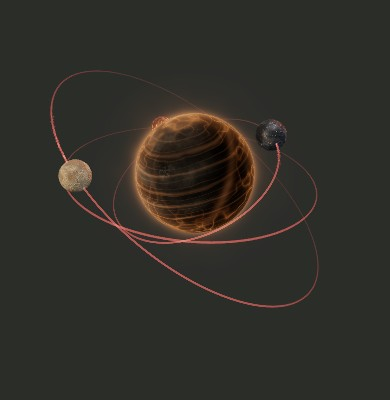
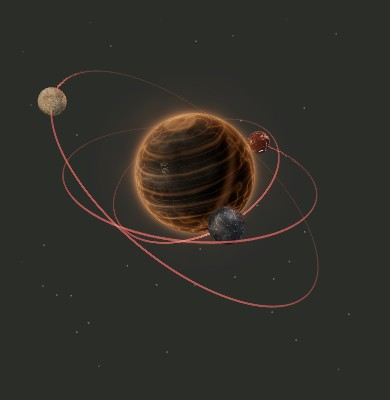
feat(#16): stars in every animation background
Brandon (2026-10-13): "we added stars for playbooks and portfolio and we
should have stars included in all the annimation backgrounds".

- src/lib/orbit/star-dust.ts: the collections' far dust (seeded shell, 1.4px
  fixed-size points, #8a877d at 0.55, below the bloom threshold, unfogged,
  depth-tested) as addStarDust(), and their frame edge fade (EdgeFeather +
  setEdgeFade: 10px hard + 40px soft to the exact ground).
- collection-scene: uses the helper; same seed and values, same look (posters
  kept).
- map-scene (Home close-up, Work with me wide and selected): the dust behind
  the planet and moons, re-centred on the camera each frame so it stays at
  infinity through the flights; 1500 points so the visible density matches the
  collections' (about 6-7 per 100k px at 1440 against their 5.5). Work with me
  gets the edge fade, which also clears the selected view's 1/255 edge tint;
  Home's full-bleed stage skips it (Framing.edgeFade false), its page masks
  already do that work and its planet runs off the window.
- formation-scene (the story scenes): the shared dust, quieter (0.38, 1.2px)
  so it never blooms or competes with the craft trails, camera-centred.
- Posters recaptured from the live scenes: home-closeup-{desktop,mobile}.jpg,
  work-{desktop,mobile}.jpg and formation/{full-time,fractional,advisory}.webp
  (same sizes and formats); scripts/capture-collection-posters.mjs gains
  `stages` and `stories` modes. home-{desktop,mobile}.jpg are not referenced by
[…]

diff --git a/src/lib/orbit/map-scene.ts b/src/lib/orbit/map-scene.ts
@@ -3,6 +3,7 @@ import { EffectComposer } from 'three/addons/postprocessing/EffectComposer.js';
 import { RenderPass } from 'three/addons/postprocessing/RenderPass.js';
 import { UnrealBloomPass } from 'three/addons/postprocessing/UnrealBloomPass.js';
 import { OutputPass } from 'three/addons/postprocessing/OutputPass.js';
+import { ShaderPass } from 'three/addons/postprocessing/ShaderPass.js';
 import { RoundedBoxGeometry } from 'three/addons/geometries/RoundedBoxGeometry.js';
 import { RoomEnvironment } from 'three/addons/environments/RoomEnvironment.js';
 import { CATEGORIES, type CategoryId, type ContentItem } from './orbit-data';
@@ -32,6 +33,7 @@ import { createPlanet } from './planet';
 import { resolveMoonStyle, SPHERE_RADII, SPHERE_CENTER_RADII } from './moon-style';
 import { surfaceMaterial, valueNoise, dataTexture, rustTexture, STAGE_GROUND, type SurfaceUniforms } from './moon-surfaces';
 import { attachMicroFormation, type MicroFormation } from './formation-craft';
+import { addStarDust, EdgeFeather, setEdgeFade } from './star-dust';
 
 /**
  * The renderer no longer decides navigation. The host owns a `lib/map-state`
@@ -174,8 +176,10 @@ function brushedTexture() {
 /** Close-up framing on top of the fitted pose: `zoom` divides the camera distance; `offsetX`/`offsetY`
  * shift the image in NDC without changing perspective (Home's "Quiet orbit" close-up, 2026-10-06).
  * `moonScale` multiplies the moons' overview size for this stage only (Home: smaller moons, Brandon
- * 2026-10-07 "decrease the moon sizes"); a chosen moon still grows to its usual centred size. */
-export type Framing = { zoom: number; offsetX: number; offsetY: number; maxPixelRatio: number; moonScale?: number };
+ * 2026-10-07 "decrease the moon sizes"); a chosen moon still grows to its usual centred size.
+ * `edgeFade: false` skips the stage-box edge fade (Home's full-bleed stage, whose page masks
+ * already fade it into the ground and whose right edge is the window's). */
+export type Framing = { zoom: number; offsetX: number; offsetY: number; maxPixelRatio: number; moonScale?: number; edgeFade?: boolean };
 
 /** `speed` scales the ambient motion (orbits, steps, planet surface); flights keep their timing. */
 export function createMap(
@@ -224,6 +228,14 @@ export function createMap(
   const bloom = new UnrealBloomPass(new THREE.Vector2(800, 600), 0.34, 0.45, 0.93);
   composer.addPass(bloom);
   composer.addPass(new OutputPass());
+  // Stars in the background (Brandon, 2026-10-13): the collections' dust, centred on the camera
+  // each frame so it sits at infinity behind every body through the flights; the frame edge
+  // fades to the ground (10px + 40px) so the dust never reaches the stage box's edge.
+  // 1500 points rather than the collections' 900: the moons, orbits and wider frame cover
+  // more of this stage, and 1500 lands the visible density on the collections' (AI-made, reversible).
+  const stars = addStarDust(scene, { count: 1500 });
+  const feather = framing.edgeFade === false ? null : new ShaderPass(EdgeFeather);
+  if (feather) composer.addPass(feather);
 
   const key = new THREE.DirectionalLight(0xffe2bd, 2.7);
   key.position.copy(KEY_DIR).multiplyScalar(10);
@@ -952,6 +964,7 @@ export function createMap(
       // Line2 trails need the drawing-buffer size or they render at the 1×1 default.
       const pr = renderer.getPixelRatio();
       micros.forEach((mf) => mf.setResolution(r.width * pr, r.height * pr));
+      if (feather) setEdgeFade(feather, r.width, r.height, pr);
     }
     leaderLayer.setAttribute('viewBox', `0 0 ${r.width} ${r.height}`);
     measureLabels();
@@ -1403,12 +1416,14 @@ export function createMap(
     }
 
     if (!fallback && visible && !offscreen) {
+      stars.points.position.copy(camera.position);
       composer.render();
       totalFrames++;
       if (now - diagnosticAt > 1000 || paused || reduced) {
         const times = [...frameTimes].sort((a, b) => a - b);
         const count = times.length;
         host.dataset.frameCount = String(totalFrames);
+        host.dataset.starCount = String(stars.count);
         host.dataset.frameP50 = String(times[Math.floor(count * 0.5)] || 0);
         host.dataset.frameP95 = String(times[Math.floor(count * 0.95)] || 0);
         host.dataset.frameSamples = String(count);
@@ -1544,6 +1559,8 @@ export function createMap(
       brushed.dispose();
       rust.dispose();
       environment.dispose();
+      stars.dispose();
+      feather?.dispose();
       bloom.dispose();
       composer.dispose();
       renderer.dispose();

diff --git a/src/lib/orbit/collection-scene.ts b/src/lib/orbit/collection-scene.ts
@@ -7,6 +7,7 @@ import { ShaderPass } from 'three/addons/postprocessing/ShaderPass.js';
 import { RoomEnvironment } from 'three/addons/environments/RoomEnvironment.js';
 import { createPlanet, type Planet as PlanetHandle } from './planet';
 import { STAGE_GROUND } from './moon-surfaces';
+import { addStarDust, EdgeFeather, setEdgeFade } from './star-dust';
 import { makeCraftKit, RED, IVORY, COPPER_DEEP, type CraftKit } from './formation-craft';
 
 /**
@@ -55,8 +56,6 @@ const KEY_DIR = new THREE.Vector3(-5.2, 3.4, 3.6).normalize();
 const FILL_DIR = new THREE.Vector3(4, -2.5, 3).normalize();
 const RIM_DIR = new THREE.Vector3(2.6, 1.8, -6).normalize();
 const ADD = THREE.AdditiveBlending;
-/** The page ground in output (sRGB) space: what STAGE_GROUND tone-maps to, pixel-exact. */
-const GROUND_OUT = new THREE.Vector3(43 / 255, 45 / 255, 41 / 255);
 /** The studies were framed for a 760×520 stage; narrower boxes keep that horizontal extent. */
 const DESIGN_ASPECT = 760 / 520;
 const BASE_FOV = 35;
@@ -77,21 +76,6 @@ function slerpDir(a: THREE.Vector3, b: THREE.Vector3, u: number) {
   const s = Math.sin(om);
   return a.clone().multiplyScalar(Math.sin((1 - u) * om) / s).addScaledVector(b, Math.sin(u * om) / s).normalize();
 }
-
-/** Final pass: the outer frame blends to the page ground (hard 10px, soft 40px, CSS px). */
-const EdgeFeather = {
-  uniforms: {
-    tDiffuse: { value: null },
-    uRes: { value: new THREE.Vector2(1, 1) },
-    uHard: { value: 10 },
-    uSoft: { value: 40 },
-    uGround: { value: GROUND_OUT },
-  },
-  vertexShader: `varying vec2 vUv;void main(){vUv=uv;gl_Position=projectionMatrix*modelViewMatrix*vec4(position,1.);}`,
-  fragmentShader: `uniform sampler2D tDiffuse;uniform vec2 uRes;uniform float uHard;uniform float uSoft;uniform vec3 uGround;varying vec2 vUv;
-  void main(){vec4 c=texture2D(tDiffuse,vUv);vec2 px=vUv*uRes;float d=min(min(px.x,uRes.x-px.x),min(px.y,uRes.y-px.y));
-  float k=smoothstep(uHard,uHard+uSoft,d);gl_FragColor=vec4(mix(uGround,c.rgb,k),1.);}`,
-};
 
 interface Stage {
   scene: THREE.Scene;
@@ -293,23 +277,7 @@ export function createCollectionScene(
   composer.addPass(feather);
 
   // Star dust: a far shell below the bloom threshold (seeded, so posters are repeatable).
-  const dust = (() => {
-    const n = 900,
-      pos = new Float32Array(n * 3);
-    let seed = 7;
-    const rnd = () => (seed = (seed * 16807) % 2147483647) / 2147483647;
-    for (let i = 0; i < n; i++) {
-      const v = V(rnd() * 2 - 1, rnd() * 2 - 1, rnd() * 2 - 1).normalize().multiplyScalar(60 + rnd() * 30);
-      pos.set([v.x, v.y, v.z], i * 3);
-    }
-    const g = new THREE.BufferGeometry();
-    g.setAttribute('position', new THREE.BufferAttribute(pos, 3));
-    const m = new THREE.PointsMaterial({
-      color: 0x8a877d, size: 1.4, sizeAttenuation: false, transparent: true, opacity: 0.55, depthWrite: false, fog: false,
-    });
-    scene.add(new THREE.Points(g, m));
-    return { g, m };
-  })();
+  const dust = addStarDust(scene);
 
   const kit = makeCraftKit(scene, camera);
   const planets: PlanetHandle[] = [];
@@ -386,6 +354,7 @@ export function createCollectionScene(
     host.dataset.frameSamples = String(n);
     host.dataset.simTime = t.toFixed(2);
     host.dataset.scene = kind;
+    host.dataset.starCount = String(dust.count);
     diagnosticAt = now;
   }
   function setRunning() {
@@ -430,9 +399,7 @@ export function createCollectionScene(
     composer.setSize(w, h);
     bloom.resolution.set(w * pr, h * pr);
     kit.setResolution(w * pr, h * pr);
-    feather.uniforms.uRes.value.set(w * pr, h * pr);
-    feather.uniforms.uHard.value = 10 * pr;
-    feather.uniforms.uSoft.value = 40 * pr;
+    setEdgeFade(feather, w, h, pr);
     camera.aspect = w / h;
     // Keep the study's horizontal extent in narrower boxes (taller desktop stages, phones).
     const k = Math.max(1, DESIGN_ASPECT / camera.aspect) / (camera.aspect < 1.1 ? build.narrowZoom ?? 1 : 1);
@@ -459,8 +426,7 @@ export function createCollectionScene(
       renderer.domElement.removeEventListener('webglcontextlost', onContextLost);
       planets.forEach((p) => p.dispose());
       sprites.forEach((m) => m.dispose());
-      dust.g.dispose();
-      dust.m.dispose();
+      dust.dispose();
       kit.dispose();
       envTex.dispose();
       pmrem.dispose();

diff --git a/src/lib/orbit/star-dust.ts b/src/lib/orbit/star-dust.ts
@@ -1,0 +1,93 @@
+import * as THREE from 'three';
+
+/**
+ * Far star dust and the frame edge fade that keeps it off the stage box (Brandon, 2026-10-13:
+ * "we should have stars included in all the animation backgrounds"). Factored out of the
+ * collection scenes (ticket #16), which carried both first; used there, by the orbital map
+ * stage (Home, Work with me) and by the Work with me story scenes.
+ *
+ * The dust is a seeded shell of fixed-size points, below the bloom threshold, unfogged, with
+ * depth testing on and depth writes off, so every body and trail draws over it.
+ */
+
+export interface StarDustOptions {
+  /** Points on the shell (collections: 900). */
+  count?: number;
+  /** Point size in CSS px; sizeAttenuation is off, so this is the on-screen size. */
+  size?: number;
+  opacity?: number;
+  color?: THREE.ColorRepresentation;
+  /** Shell radii (world units); keep `outer` plus the camera's reach under the camera's far plane. */
+  inner?: number;
+  outer?: number;
+  /** PRNG seed, so posters are repeatable. */
+  seed?: number;
+}
+
+export interface StarDust {
+  points: THREE.Points;
+  count: number;
+  dispose(): void;
+}
+
+/** The collection scenes' look: 900 points, 1.4px, warm grey #8a877d at 0.55, shell 60–90. */
+export const STAR_DUST_DEFAULTS: Required<StarDustOptions> = {
+  count: 900, size: 1.4, opacity: 0.55, color: 0x8a877d, inner: 60, outer: 90, seed: 7,
+};
+
+export function addStarDust(scene: THREE.Object3D, opts: StarDustOptions = {}): StarDust {
+  const o = { ...STAR_DUST_DEFAULTS, ...opts };
+  const pos = new Float32Array(o.count * 3);
+  let seed = o.seed;
+  const rnd = () => (seed = (seed * 16807) % 2147483647) / 2147483647;
+  const v = new THREE.Vector3();
+  for (let i = 0; i < o.count; i++) {
+    v.set(rnd() * 2 - 1, rnd() * 2 - 1, rnd() * 2 - 1).normalize().multiplyScalar(o.inner + rnd() * (o.outer - o.inner));
+    pos.set([v.x, v.y, v.z], i * 3);
+  }
+  const g = new THREE.BufferGeometry();
+  g.setAttribute('position', new THREE.BufferAttribute(pos, 3));
+  const m = new THREE.PointsMaterial({
+    color: o.color, size: o.size, sizeAttenuation: false, transparent: true, opacity: o.opacity, depthWrite: false, fog: false,
+  });
+  const points = new THREE.Points(g, m);
+  scene.add(points);
+  return {
+    points,
+    count: o.count,
+    dispose() {
+      points.removeFromParent();
+      g.dispose();
+      m.dispose();
+    },
+  };
+}
+
+/** The page ground in output (sRGB) space: what STAGE_GROUND tone-maps to, pixel-exact. */
+const GROUND_OUT = new THREE.Vector3(43 / 255, 45 / 255, 41 / 255);
+
+/**
+ * Final ShaderPass: the outer frame blends to the page ground — hard `uHard`, then a `uSoft`
+ * ramp, in drawing-buffer px (call `setEdgeFade` on resize with the pixel ratio applied).
+ * So bloom, coronas and the dust never tint the stage box's edge.
+ */
+export const EdgeFeather = {
+  uniforms: {
+    tDiffuse: { value: null },
+    uRes: { value: new THREE.Vector2(1, 1) },
+    uHard: { value: 10 },
+    uSoft: { value: 40 },
+    uGround: { value: GROUND_OUT },
+  },
+  vertexShader: `varying vec2 vUv;void main(){vUv=uv;gl_Position=projectionMatrix*modelViewMatrix*vec4(position,1.);}`,
+  fragmentShader: `uniform sampler2D tDiffuse;uniform vec2 uRes;uniform float uHard;uniform float uSoft;uniform vec3 uGround;varying vec2 vUv;
+  void main(){vec4 c=texture2D(tDiffuse,vUv);vec2 px=vUv*uRes;float d=min(min(px.x,uRes.x-px.x),min(px.y,uRes.y-px.y));
+  float k=smoothstep(uHard,uHard+uSoft,d);gl_FragColor=vec4(mix(uGround,c.rgb,k),1.);}`,
+};
+
+/** Size the edge fade for a w × h CSS-px box at pixel ratio `pr`: 10px hard + 40px soft. */
+export function setEdgeFade(pass: { uniforms: Record<string, { value: any }> }, w: number, h: number, pr: number) {
+  pass.uniforms.uRes.value.set(w * pr, h * pr);
+  pass.uniforms.uHard.value = 10 * pr;
+  pass.uniforms.uSoft.value = 40 * pr;
+}

diff --git a/src/lib/orbit/formation-scene.ts b/src/lib/orbit/formation-scene.ts
@@ -3,6 +3,7 @@ import { EffectComposer } from 'three/addons/postprocessing/EffectComposer.js';
 import { RenderPass } from 'three/addons/postprocessing/RenderPass.js';
 import { UnrealBloomPass } from 'three/addons/postprocessing/UnrealBloomPass.js';
 import { OutputPass } from 'three/addons/postprocessing/OutputPass.js';
+import { addStarDust } from './star-dust';
 import { RoomEnvironment } from 'three/addons/environments/RoomEnvironment.js';
 import { surfaceMaterial, rustTexture, STAGE_GROUND } from './moon-surfaces';
 import { makeCraftKit, RED, IVORY, COPPER_DEEP } from './formation-craft';
@@ -129,28 +130,11 @@ export function createFormation(container: HTMLElement, model: EngagementSlug): 
   composer.addPass(bloom);
   composer.addPass(new OutputPass());
 
-  // Star dust: far shell, below the bloom threshold.
-  const dust = (() => {
-    const n = 900,
-      pos = new Float32Array(n * 3);
-    for (let i = 0; i < n; i++) {
-      const v = new THREE.Vector3().randomDirection().multiplyScalar(60 + Math.random() * 30);
-      pos.set([v.x, v.y, v.z], i * 3);
-    }
-    const g = new THREE.BufferGeometry();
-    g.setAttribute('position', new THREE.BufferAttribute(pos, 3));
-    const m = new THREE.PointsMaterial({
-      color: 0x8a877d,
-      size: 1.4,
-      sizeAttenuation: false,
-      transparent: true,
-      opacity: 0.55,
-      depthWrite: false,
-    });
-    const p = new THREE.Points(g, m);
-    scene.add(p);
-    return { g, m };
-  })();
+  // Star dust (Brandon, 2026-10-13: stars in every animation background): the collections'
+  // shell, quieter here (0.38 vs 0.55, 1.2px) so under this scene's bloom it never glows or
+  // competes with the craft trails. Centred on the camera each frame (it flies the story).
+  const dust = addStarDust(scene, { opacity: 0.38, size: 1.2 });
+  container.dataset.starCount = String(dust.count);
 
   /* ---- primitives: the shared craft kit, plus this scene's entry sheaths ---- */
   const kit = makeCraftKit(scene, camera);
@@ -608,6 +592,7 @@ export function createFormation(container: HTMLElement, model: EngagementSlug): 
     camera.fov = fov;
     camera.updateProjectionMatrix();
     orientCrafts();
+    dust.points.position.copy(camera.position);
     composer.render();
     raf = requestAnimationFrame(tick);
   }
@@ -682,8 +667,7 @@ export function createFormation(container: HTMLElement, model: EngagementSlug): 
       moonMat.dispose();
       rustTex?.dispose();
       atmo.material.dispose();
-      dust.g.dispose();
-      dust.m.dispose();
+      dust.dispose();
       kit.dispose();
       envTex.dispose();
       pmrem.dispose();
